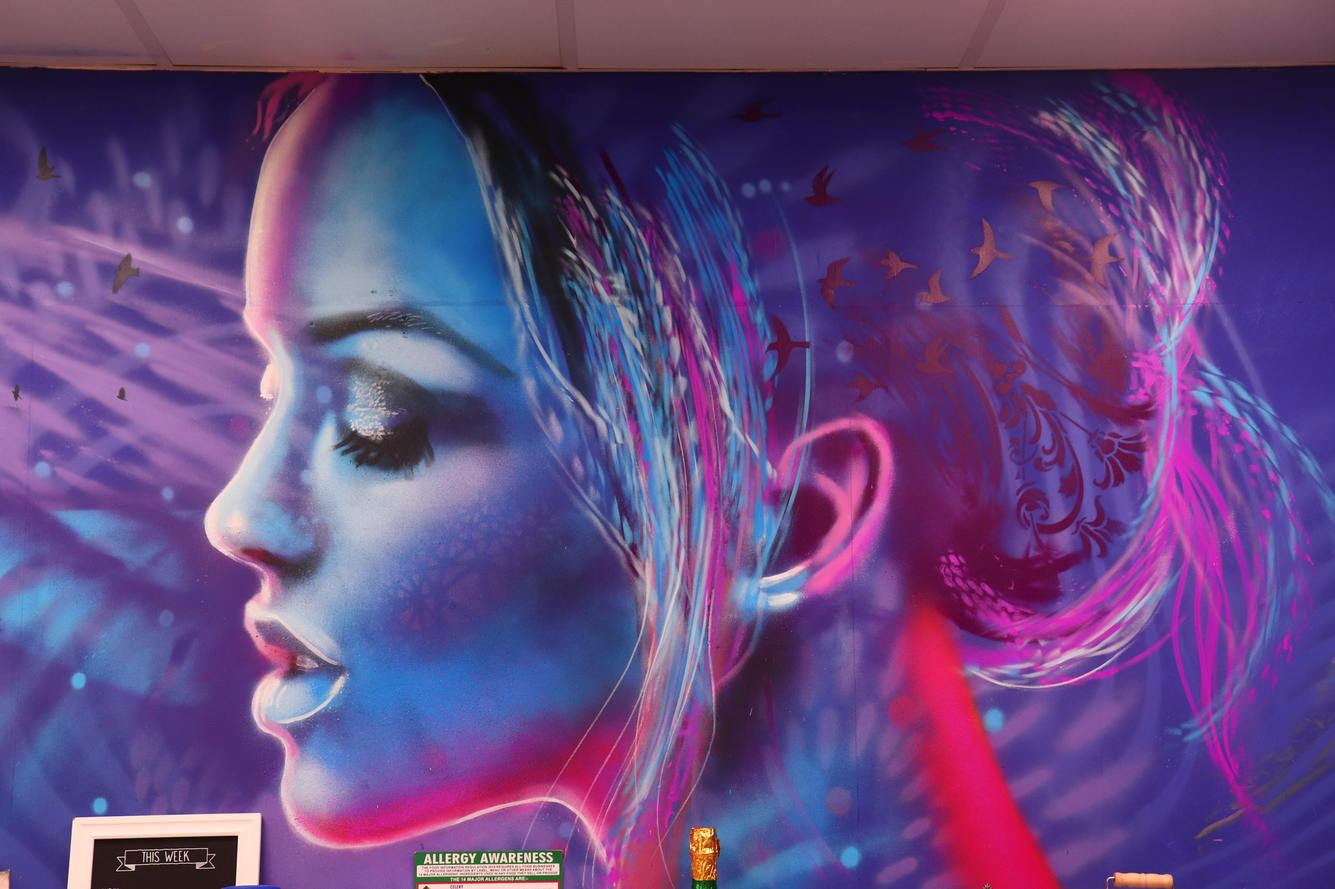
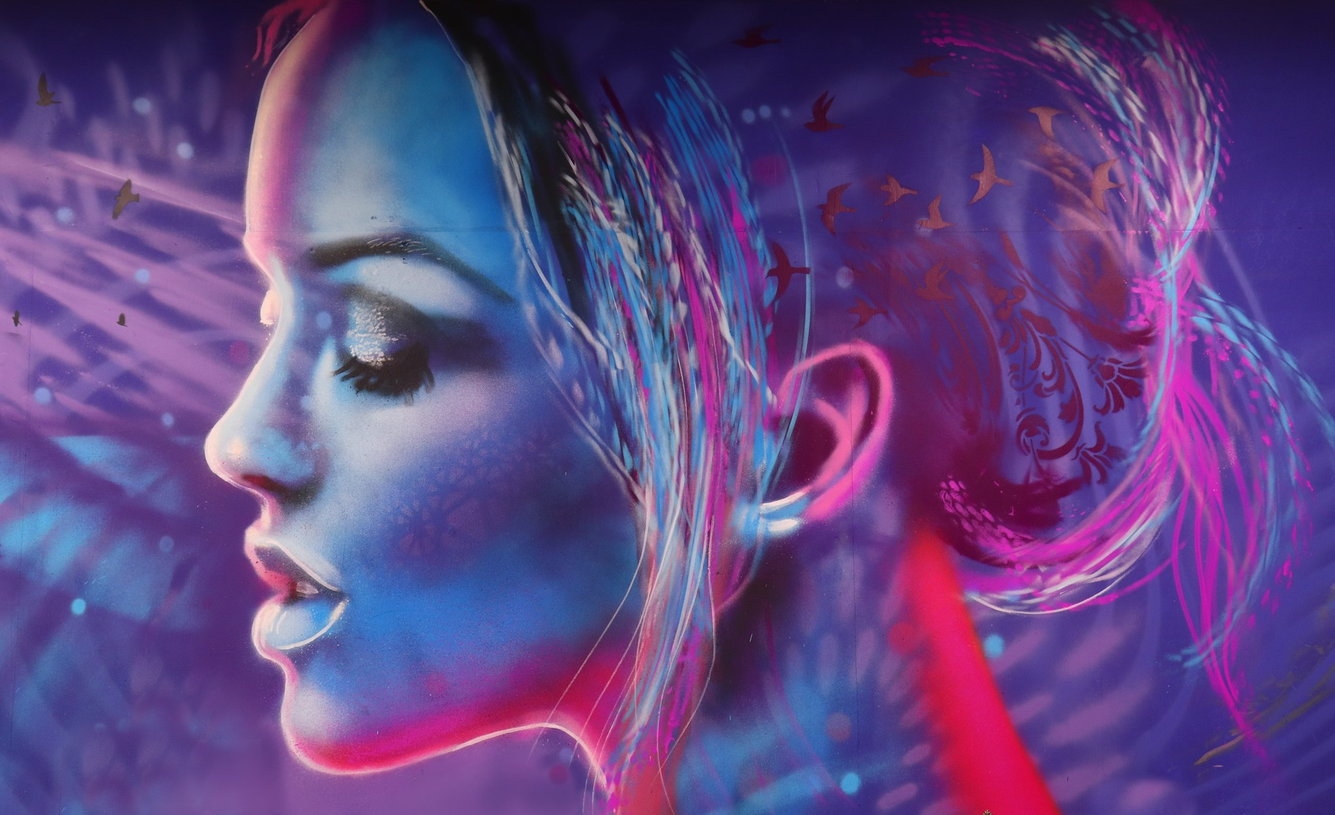
🎨Edited mural image, minor changes to services page

diff --git a/css/styles.css b/css/styles.css
@@ -1,3 +1,17 @@
+/*Variable values*/
+:root {
+    /*color palette from mural image*/
+    --mural-purple: rgb(72, 44, 129);
+    --mural-blue: rgb(94, 160, 218);
+    --mural-plum: rgb(231, 161, 232);
+    --mural-pink: rgb(255, 56, 129);
+
+    /*off white and black*/
+    --black: rgb(13, 11, 12);
+    --white: rgb(255, 247, 245);
+}
+
+
 /*
 ================================
 Color picker styles
@@ -64,27 +78,36 @@ Color picker styles
 }
 
 /* --------- end color picker styles --------- */
-:root {
-    /*color palette from mural image*/
-    --mural-purple: rgb(72, 44, 129);
-    --mural-blue: rgb(94, 160, 218);
-    --mural-plum: rgb(231, 161, 232);
-    --mural-pink: rgb(255, 56, 129);
 
-    /*off white and black*/
-    --black: rgb(7, 3, 9);
-    --white: rgb(255, 247, 245);
-}
+
+
+
 
 html {
     background-color: var(--white);
 }
 
+body {
+    margin: 0;
+}
+
+.left {
+    float: left;
+}
+
+.right {
+    float: right;
+}
 
 
 
 
-/*Header and nav styling*/
+/*
+==========================
+Header and nav styling
+==========================
+*/
+
 header {
     background-image: url(../img/mural.jpg);
     background-repeat: no-repeat;
@@ -105,25 +128,22 @@ nav li {
 nav a {
     text-decoration: none;
 }
-/*END header and nav styling*/
+
+/*---------------END header and nav styling---------------*/
 
 
 
 
 
-.left {
-    float: left;
-}
-
-.right {
-    float: right;
-}
 
 
+/*
+============================
+Images
+============================
+*/
 
-
-
-/*Default image styling.*/
+/*default image styling, resizes large images and centers them*/
 img {
     width: 100%;
     height: auto;
@@ -132,7 +152,7 @@ img {
     margin: 0 auto;
 }
 
-/*Other image styling*/
+/*other image styling*/
 img.gallery-img {
     display: inline-block;
     max-width: 300px;
@@ -147,7 +167,8 @@ img.right {
     max-width: 50%;
     margin: 0 0 0 1rem;
 }
-/*END image styling.*/
+
+/*----------------END image styling.----------------*/
 
 
 
@@ -173,7 +194,15 @@ hr {
 
 
 
-/*footer styling*/
+/*
+================================
+Footer styling
+================================
+*/
+footer {
+    grid-area: footer;
+}
+
 footer li {
     list-style-type: none;
     list-style-image: none;
@@ -188,6 +217,8 @@ footer a {
     --black: rgb(7, 3, 9);
     --white: rgb(255, 247, 245);
 }
+
+/*-----------------END footer styling----------------*/
 
 body {
     font-size: 1em;

diff --git a/services.html b/services.html
@@ -14,16 +14,17 @@
     </header>
 
     <input type="checkbox"/>
-    <label></label>
-    <nav>
-        <ul>
-            <a href="index.html"><li>Home</li></a>
-            <a href="about.html"><li>About</li></a>
-            <a href="contact.html"><li>Contact</li></a>
-            <a href="services.html"><li>Services</li></a>
-            <a href="suggest.html"><li>Suggestions</li></a>
-        </ul>
-    </nav>
+    <label>
+        <nav>
+            <ul>
+                <a href="index.html"><li>Home</li></a>
+                <a href="about.html"><li>About</li></a>
+                <a href="contact.html"><li>Contact</li></a>
+                <a href="services.html"><li>Services</li></a>
+                <a href="suggest.html"><li>Suggestions</li></a>
+            </ul>
+        </nav>
+    </label>
 
     <main>
         <h1>Our Services</h1>
@@ -55,6 +56,22 @@
     </main>
 
     <footer>
+        <div class="footer-column-wrap">
+            <div class="footer-column">
+                <ul>
+                    <li><a href="contact.html">Contact</a></li>
+                    <li><a href="about.html">About Us</a></li>
+                </ul>
+            </div>
+
+            <div class="footer-column">
+                <ul>
+                    <li><a href="#">Instagram</a></li>
+                    <li><a href="#">Facebook</a></li>
+                    <li><a href="#">Youtube</a></li>
+                </ul>
+            </div>
+        </div>
         <span id="copyright">&copy;2026</span>
     </footer>
 </body>
